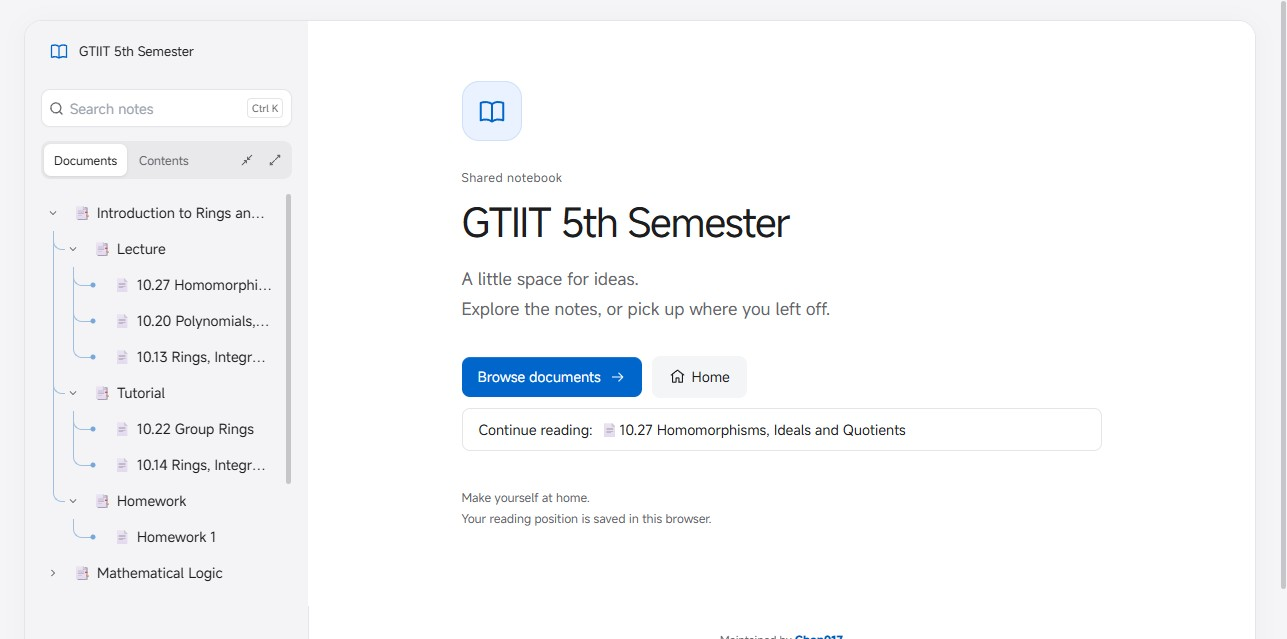
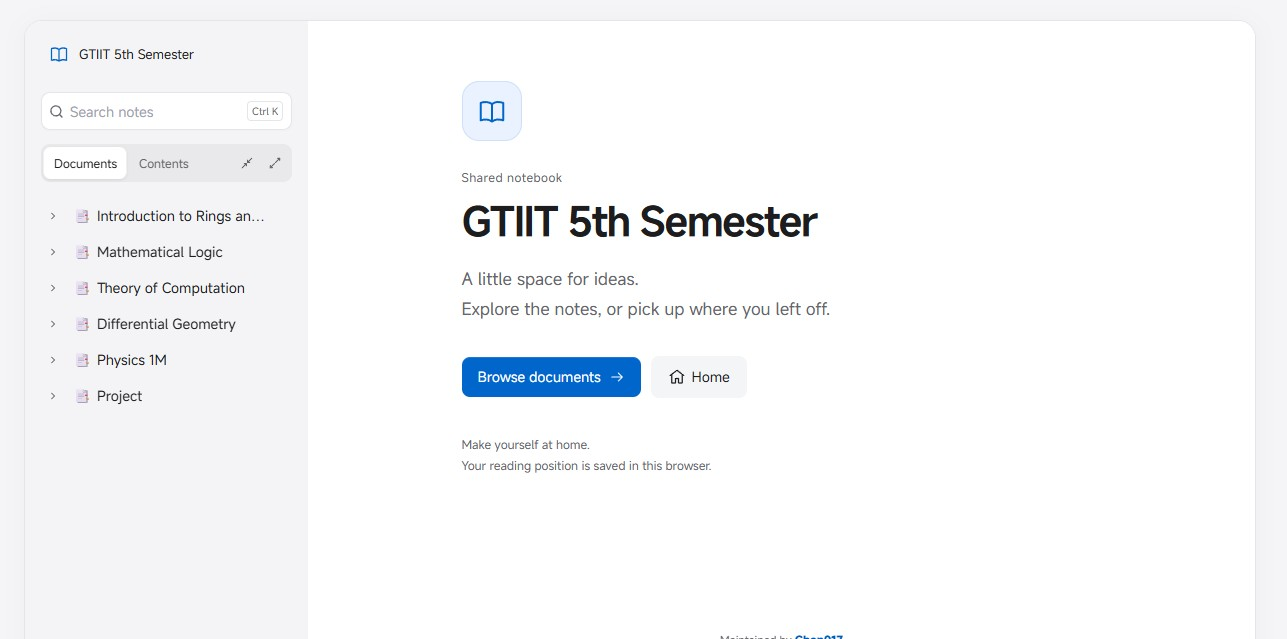
Resolve reader dark-mode surfaces and refresh UI screenshots
Resolve semantic surface aliases within each page theme, enforce PDF panel/control contrast in existing browser acceptance, retain readable legacy search fallback descriptions, and refresh the three deployed README screenshots.

diff --git a/php-site/assets/app.js b/php-site/assets/app.js
@@ -5170,9 +5170,9 @@ const initImageViewer = () => {
       let html = '<ul class="kb-search-list">';
       results.forEach((r) => {
         const titleHtml = highlightText(r.title, query);
-        const snippet = String(r.snippet || "").replace(/\$\$[\s\S]*?\$\$|\$[^$\n]+\$/g, "[formula]")
-          .replace(/\${1,2}[^$]*$/g, "[formula]")
-          .replace(/!\[[^\]]*\]\([^)]*\)/g, "[image]").replace(/\[([^\]]+)\]\([^)]*\)/g, "$1")
+        const snippet = String(r.snippet || "").replace(/\$\$[\s\S]*?\$\$|\$[^$\n]+\$/g, "Formula")
+          .replace(/\${1,2}[^$]*$/g, "Formula")
+          .replace(/!\[[^\]]*\]\([^)]*\)/g, "Image").replace(/\[([^\]]+)\]\([^)]*\)/g, "$1")
           .replace(/(?:\*\*|__|`|^#{1,6}\s)/g, "");
         const snippetHtml = highlightText(snippet, query);
         const pathHtml = r.hpath ? escapeHtml(r.hpath) : '';

diff --git a/php-site/assets/reader-style.css b/php-site/assets/reader-style.css
@@ -4551,7 +4551,7 @@ details[open] > summary::before { transform: rotate(45deg); }
 }
 
 /* Semantic layers share the existing light/dark palette. */
-:root { --canvas-bg: var(--bg); --content-bg: var(--surface); --sidebar-bg: var(--panel-bg); --overlay-bg: var(--surface); --input-bg: var(--surface-muted); }
+body:is(.layout-app,.layout-share,.layout-public,.layout-auth) { --canvas-bg: var(--bg); --content-bg: var(--surface); --sidebar-bg: var(--panel-bg); --overlay-bg: var(--surface); --input-bg: var(--surface-muted); }
 .layout-app .input, .layout-share .input { background: var(--input-bg); }
 .layout-app .admin-account .button.ghost { color: var(--muted); background: transparent; }
 .reader-icon { width: 18px; height: 18px; flex: none; }

diff --git a/php-site/assets/style.css b/php-site/assets/style.css
@@ -4634,7 +4634,7 @@ details[open] > summary::before { transform: rotate(45deg); }
 }
 
 /* Semantic layers share the existing light/dark palette. */
-:root { --canvas-bg: var(--bg); --content-bg: var(--surface); --sidebar-bg: var(--panel-bg); --overlay-bg: var(--surface); --input-bg: var(--surface-muted); }
+body:is(.layout-app,.layout-share,.layout-public,.layout-auth) { --canvas-bg: var(--bg); --content-bg: var(--surface); --sidebar-bg: var(--panel-bg); --overlay-bg: var(--surface); --input-bg: var(--surface-muted); }
 .layout-app .input, .layout-share .input { background: var(--input-bg); }
 .layout-app .admin-account .button.ghost { color: var(--muted); background: transparent; }
 .reader-icon { width: 18px; height: 18px; flex: none; }

diff --git a/docs/UI_REFINEMENT_DELIVERY.md b/docs/UI_REFINEMENT_DELIVERY.md
@@ -25,7 +25,7 @@ Generated reader CSS is rebuilt from the shared stylesheet. Plugin packaging tak
 
 ## Verification record
 
-Passed during implementation: 76 PHP runtime checks; targeted admin Undo, HTTPS configuration and search integration; existing DOM/plugin/render-security/controls/footnotes regressions; packaging and documentation; real Chromium and Edge PDF/UI acceptance; both-theme heading and tree tests; deployment guard simulation. Final full local regression and PR Actions results are recorded in the delivery response after completion.
+Passed during implementation: 78 PHP runtime checks; targeted admin Undo, HTTPS configuration and search integration; existing DOM/plugin/render-security/controls/footnotes regressions; packaging and documentation; real Chromium and Edge PDF/UI acceptance; both-theme heading and tree tests; deployment guard simulation. The full local run passed 68 cases with only the Docker/Nginx case skipped locally; the final PR PHP Actions ran all 68 in Docker successfully. Both feature PR Actions passed before merge.
 
 Edge's internal downloads-hub has an empty Playwright Page URL. The no-extra-application-pages assertion now resolves real browser-level CDP target URLs and excludes only actual edge:// or chrome:// targets in the reader context. Unknown blank pages remain counted. The unrelated MIME experiment was reverted.
 
@@ -39,4 +39,6 @@ These limitations do not imply a screen-reader certification or a measured anima
 
 ## Merge and deployment gate
 
-PR #10 must pass both existing Actions suites on its final revision before merge. Main's deployment workflow repeats regression for the actual main commit, verifies container health, unchanged core-data fingerprints and SQLite integrity. The explicit apply_public_url deployment option configures the intended HTTPS URL after the normal preservation checks. Live reader/PDF/English-title checks and the final screenshot refresh complete delivery; never treat the initial partial commits as completion.
+PR #10 passed both Actions suites and merged as 20f7810. Deployment 41524316418 passed regression, service health, core-data preservation and SQLite integrity. Explicit HTTPS configuration deployment 41524405529 also completed successfully without changing PDF limits. Live checks confirmed the English title, mathematical semantics, PDF filter/count/clear and missing-share language; all three existing README screenshots were refreshed in place.
+
+Live dark-mode inspection found that root-level semantic aliases retained light values when the reader overrides its palette on body. The final verification branch moves aliases to the actual page-theme scope and adds panel/control text-contrast assertions to every browser theme/viewport combination. It also unifies the legacy search fallback descriptions. This final branch must pass both existing Actions suites before merge; the subsequent main deployment and live dark-mode recheck complete delivery.

diff --git a/docs/UI_REFINEMENT.md b/docs/UI_REFINEMENT.md
@@ -86,3 +86,5 @@ CI 差异修复：数学占位标识使用非安全上下文同样提供的 getR
 - 搜索摘要先处理完整数学边界，再选择匹配附近的普通文字并截断；接口字段不变，公式用 Formula 描述。新公开地址通过显式 apply_public_url 部署选项更新，普通部署不重置该设置。
 
 行为回归：frontend、reader-ui、controls、pdf-ui、PHP runtime/admin 用例。真实浏览器 ui-refinement-browser 由现有 test_pdf_browser_rendering_and_save 调用，再由 PHP Actions 的 --browser 入口执行，覆盖图片键盘、PDF 单滚动、八组明暗视口、触控日历、危险操作对比度、高对比、文字缩放与未保存提醒。真实 iOS/Android、VoiceOver/TalkBack 尚需人工实机检查，自动测试不能代替实际朗读结论。
+
+主题别名在各页面 body 上定义，跟随该页的实际基础颜色解析；不能放在 :root 后继承已经解析的浅色值。真实浏览器验收分别检查 PDF 外层面板及 iframe 内选择控件在明暗主题的文字对比度，防止阅读器生成样式与后台完整样式的作用域差异被漏过。旧搜索响应也统一回退为 Formula／Image 普通描述。
